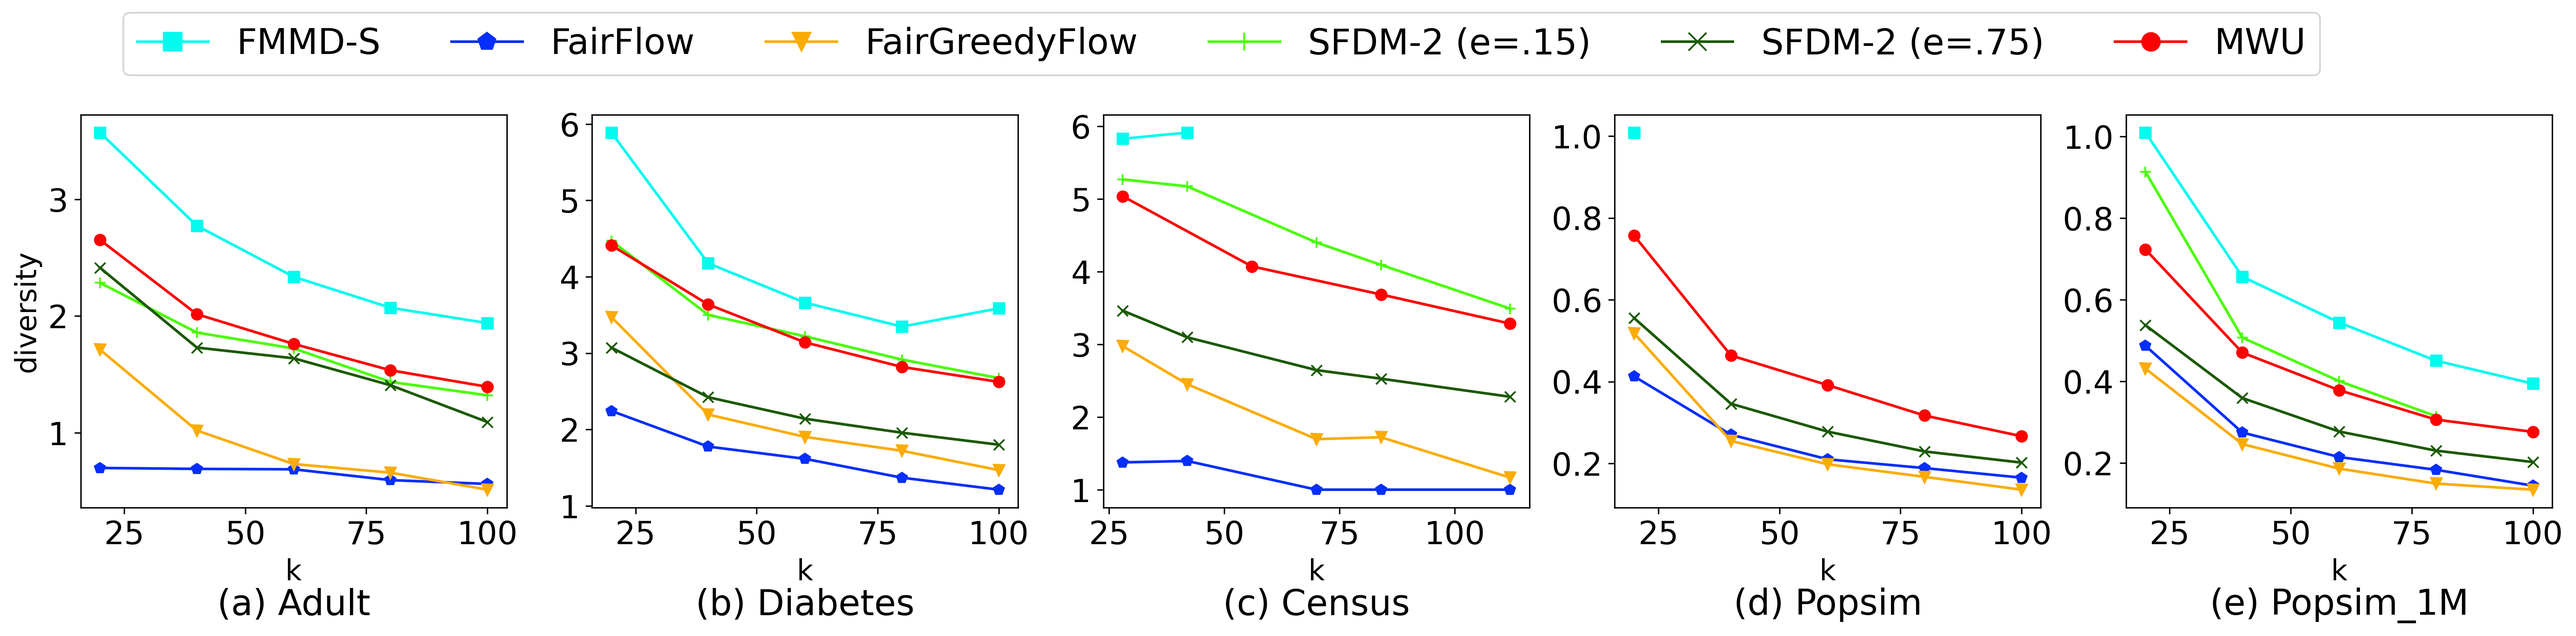
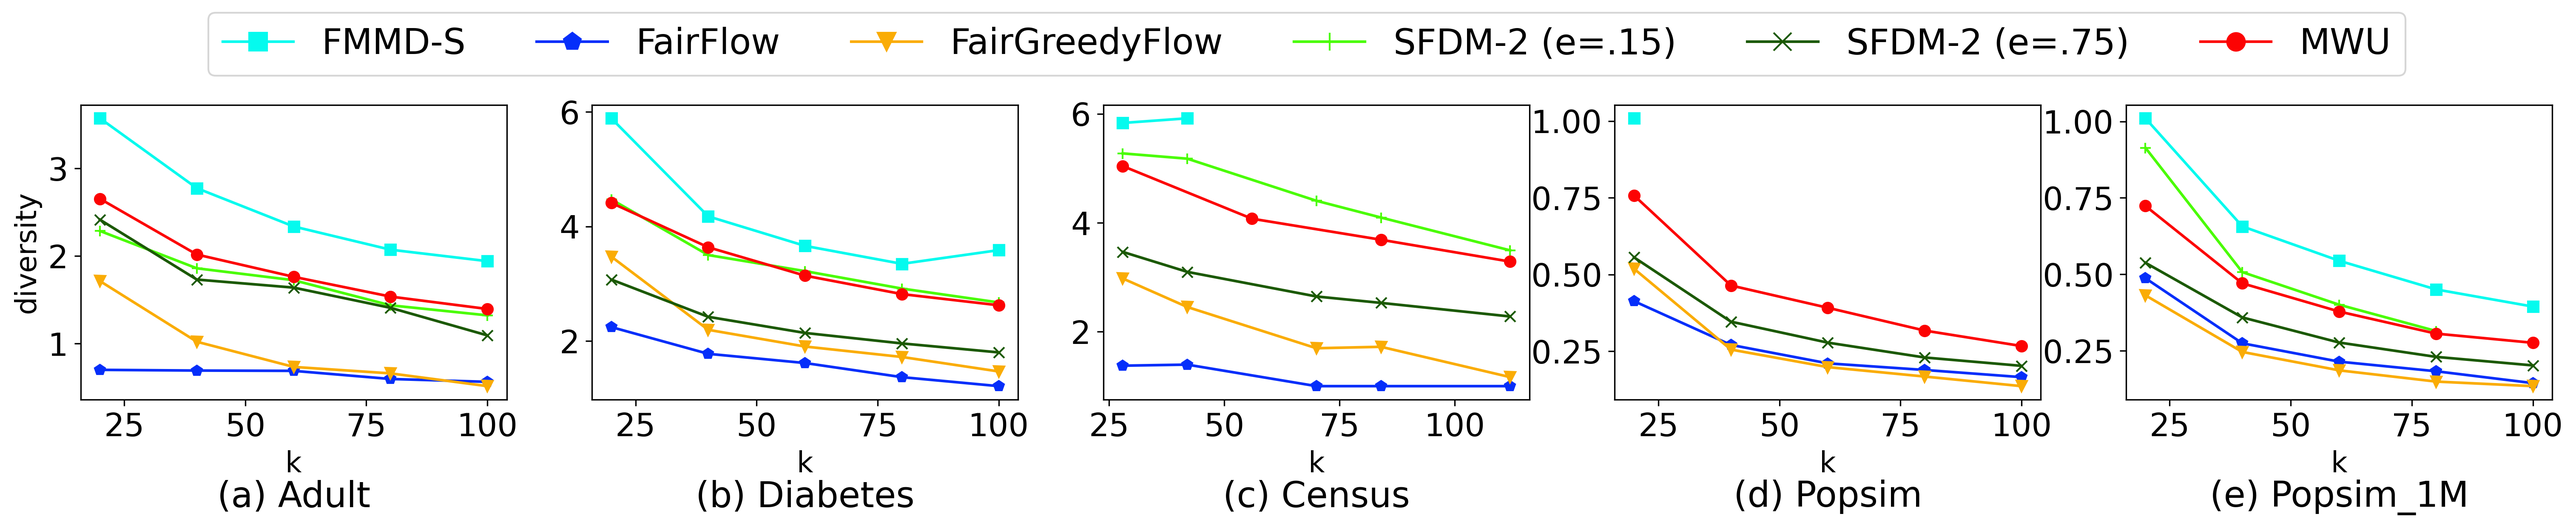
more compress

diff --git a/plot_k.py b/plot_k.py
@@ -50,7 +50,7 @@ def plot(y_key, x_key, ylogscale = False):
     plt.clf()
 
     # Each dataset gets 1 subplot
-    fig = plt.figure(figsize=(25, 4))
+    fig = plt.figure(figsize=(25, 3))
     grid_specs = gridspec.GridSpec(1, 5, width_ratios=[1, 1, 1, 1, 1], height_ratios=[1])
     legend_handles = []
 
@@ -70,7 +70,7 @@ def plot(y_key, x_key, ylogscale = False):
             if ylogscale:
                 ax.set_yscale('log')
             ax.set_xlabel(x_key, fontsize="16")
-            ax.set_title(f'({alp[i]}) {dataset_name}', y = -0.3, fontsize="20")
+            ax.set_title(f'({alp[i]}) {dataset_name}', y = -0.4, fontsize="20")
             ax.tick_params(axis='both', which='major', labelsize=18)
         i += 1
 
@@ -81,7 +81,7 @@ def plot(y_key, x_key, ylogscale = False):
         handles=legend_handles[:len(setup["algorithms"])],
         ncol=len(setup["algorithms"]),
         loc='lower left', 
-        bbox_to_anchor=(0.1, 1.1),
+        bbox_to_anchor=(1.4, 1.1),
         borderaxespad=0,
         fontsize="20"
     )
